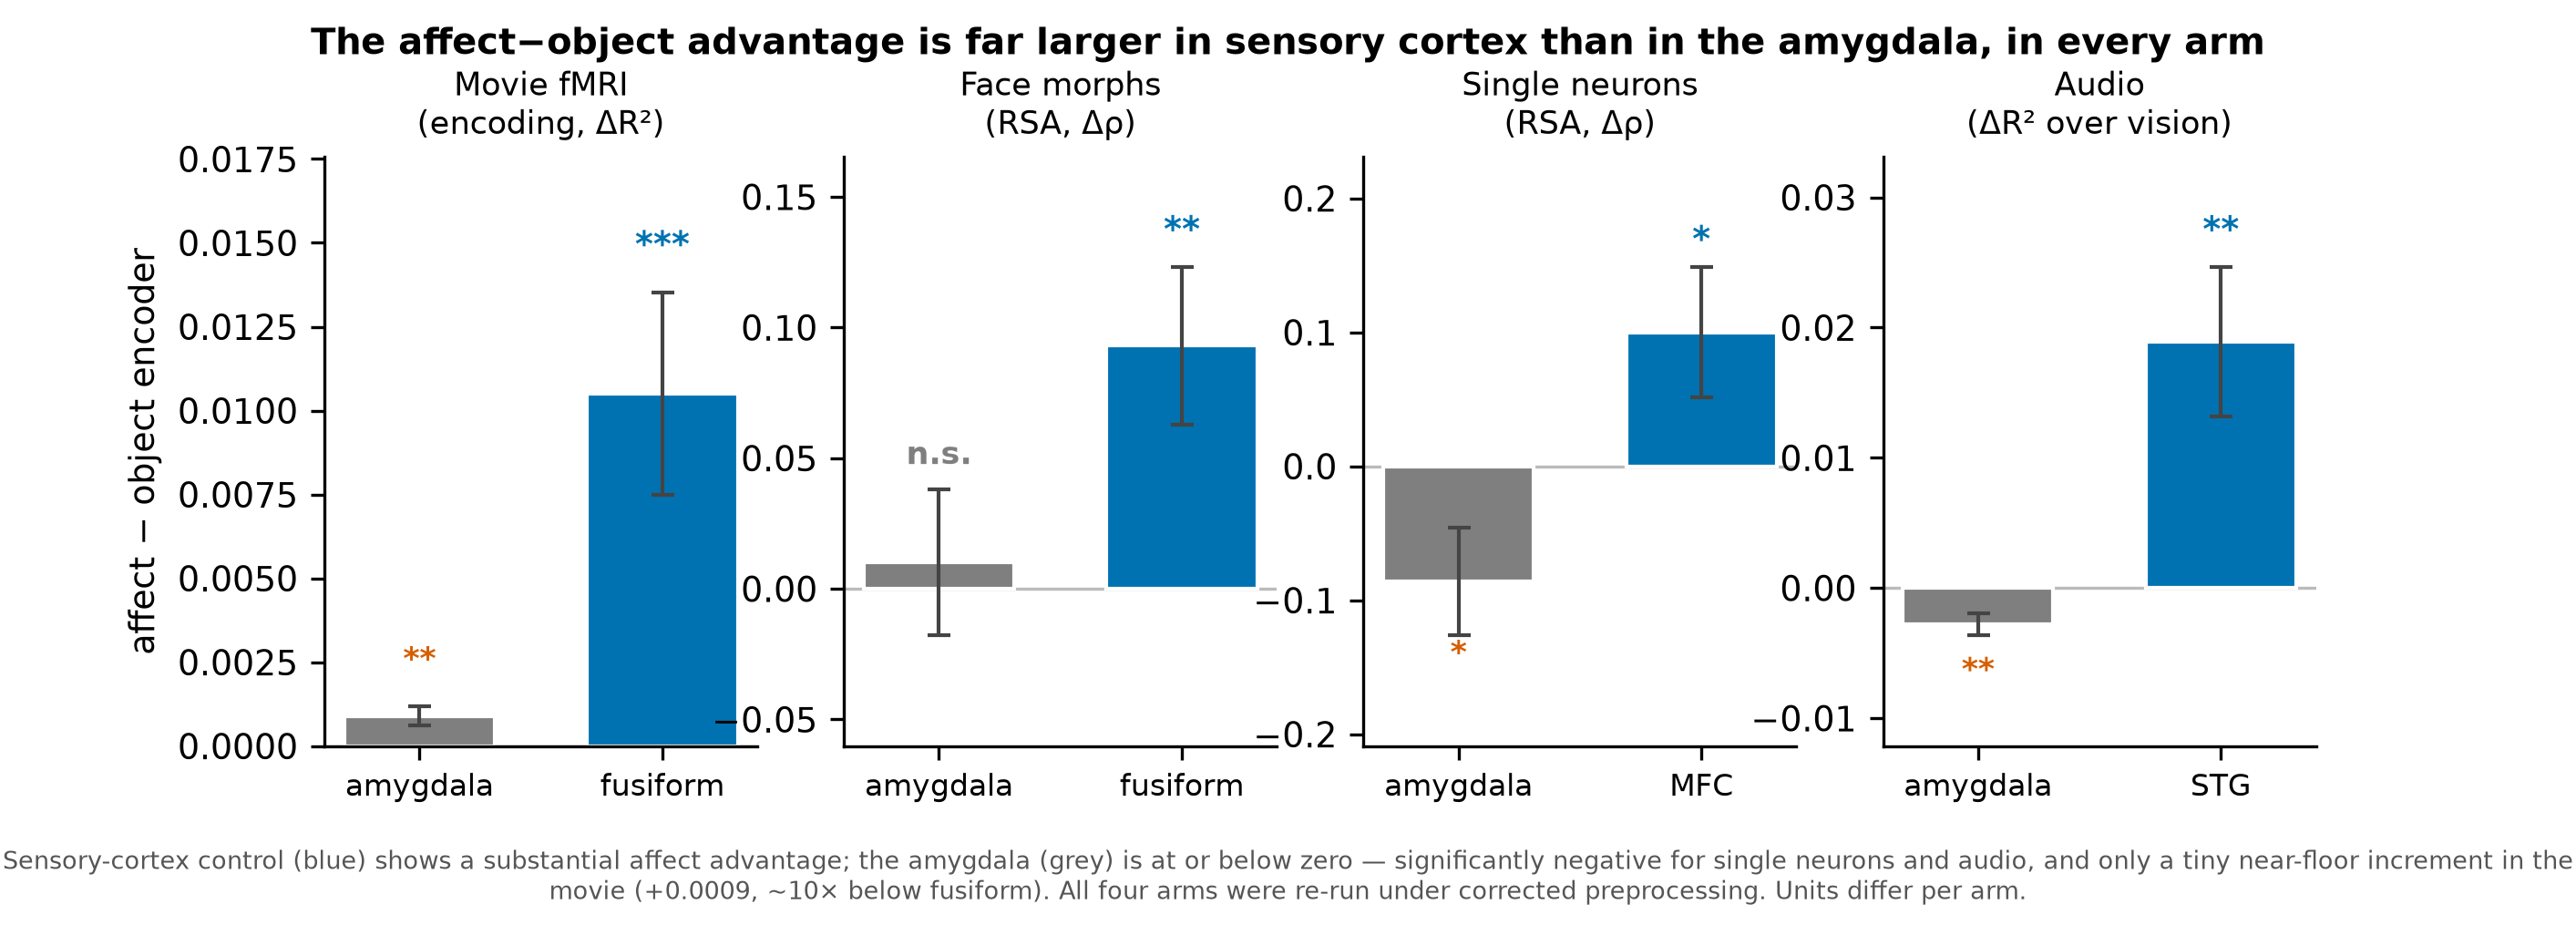
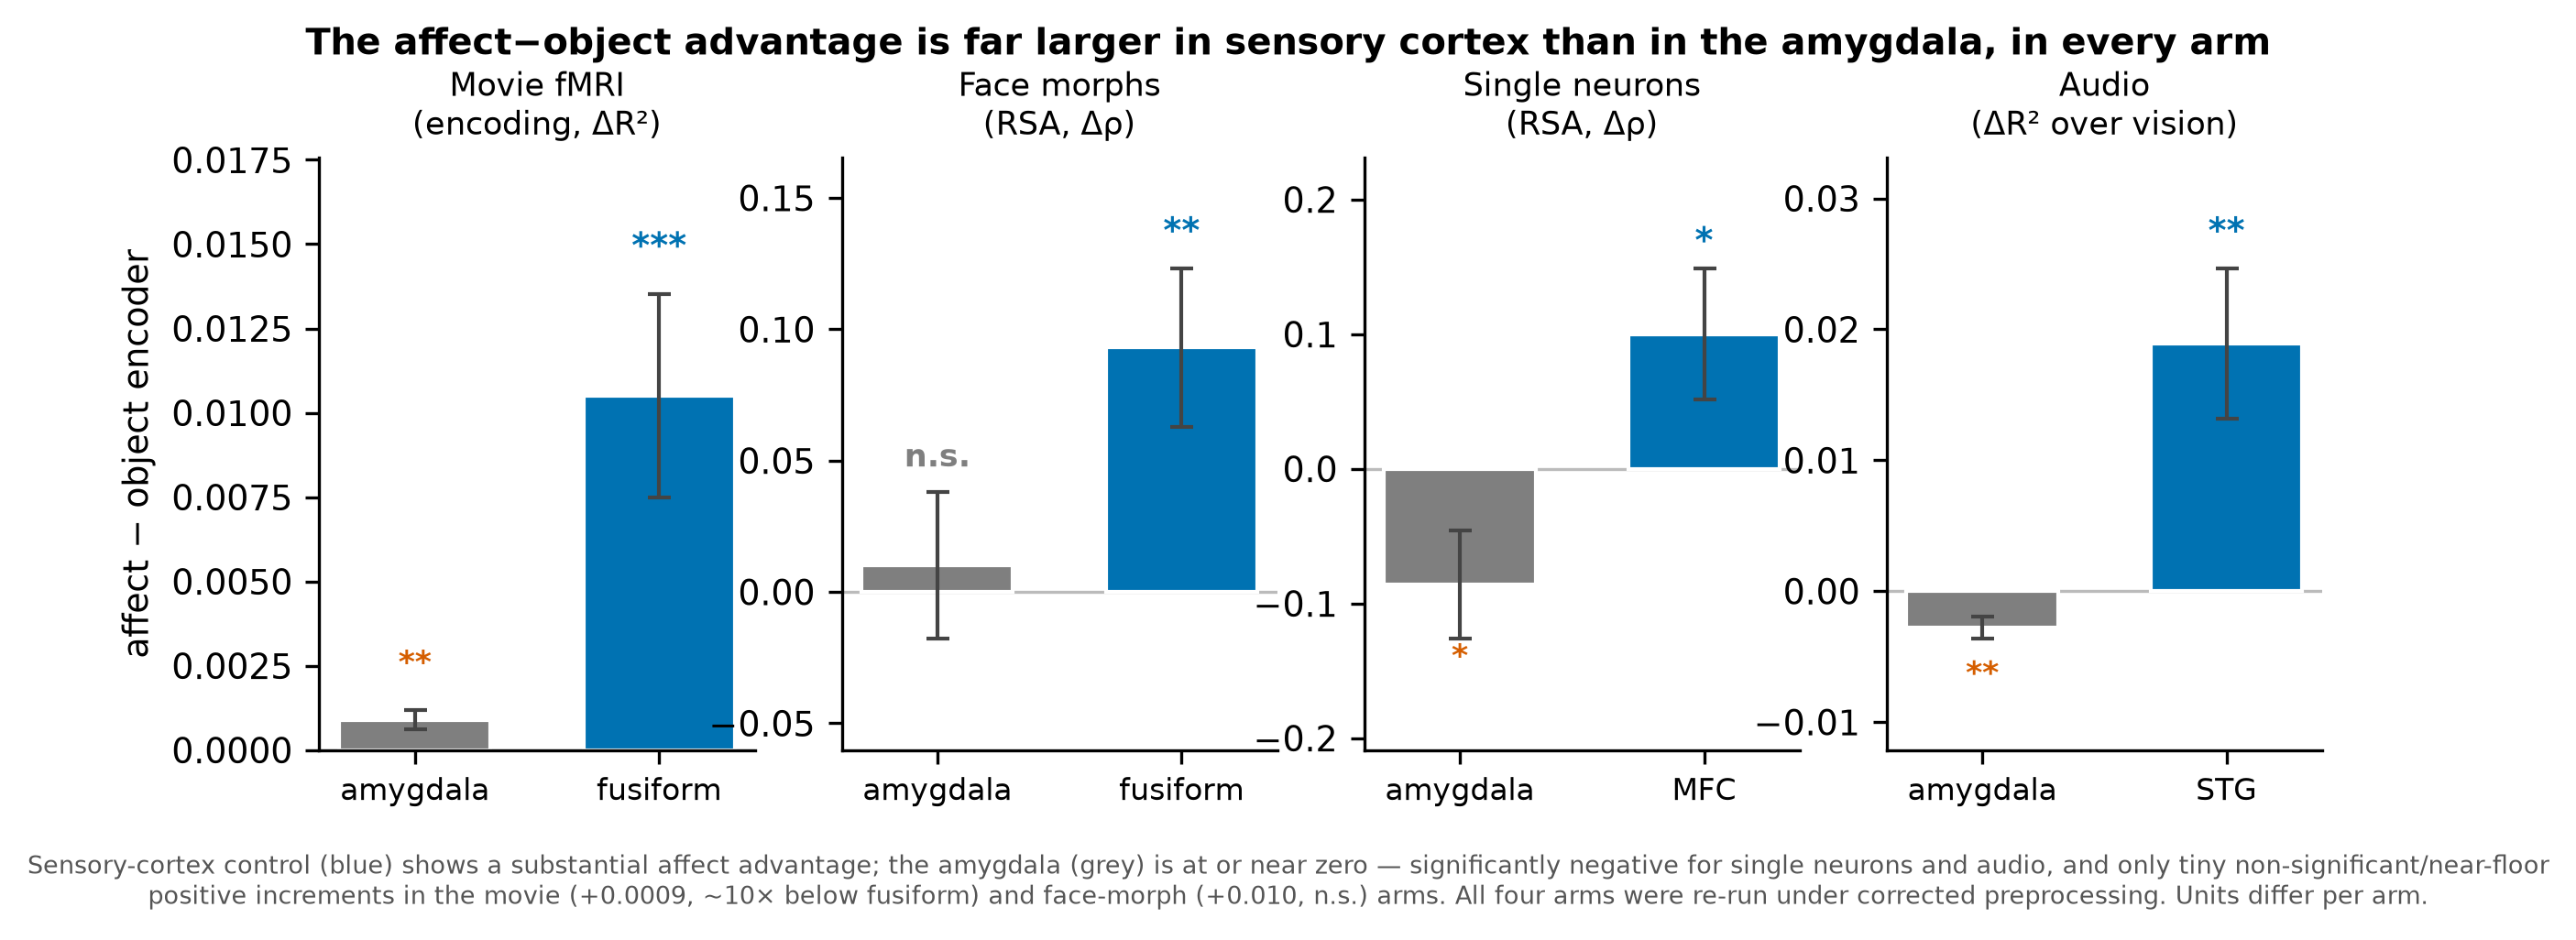
Deposit hygiene (post-audit): fix gate staleness, superseded-log markers, path scrub, abstract/figure nits
- robustness_gate.py: re-derive the CORRECTED TOST (margin +0.100, upper -0.0065, power 72%) and
  corrected positive-control p-values; it previously certified superseded v1.0.0 stats and conflicted
  with numbers_gate
- numbers_gate.py: docstring corrected to describe what it actually checks (number-in-log co-occurrence,
  not manuscript coverage)
- Mark the 3 pre-correction twin logs SUPERSEDED (amyg_neuron_rsa, pls20, second_affect_swap); README
  reproducibility table gains a v1.1.0 correction banner + canonical corrected-log map
- Scrub incidental machine-path warning lines from the second_affect_swap logs; soften Methods 4.10
  path claim to 'executable code'
- Abstract: 'significantly worse' now scoped to object encoders only (no affect-vs-low-level test exists)
- Fig 1 caption: 'at or near zero' + note face-morph +0.010 n.s.; error bars labeled p-derived; drop
  stale provenance comment in make_figures.py

diff --git a/validation/robustness_gate.py b/validation/robustness_gate.py
@@ -1,23 +1,25 @@
 #!/usr/bin/env python3
 """Robustness gate (amygdala manuscript). Deterministically re-derives the two load-bearing
-statistical claims from reported summary stats: (1) BY-FDR over the confirmatory positive-control
-family -> all survive; (2) the single-neuron TOST -> 95% upper < margin AND ~82% power. Pure
-stdlib (math). Analog of the A False Floor CP property/differential test. Exit 0 = both reproduce."""
+statistical claims from the CORRECTED (v1.1.0 re-run) summary stats: (1) BY-FDR over the
+confirmatory positive-control family -> all survive; (2) the single-neuron TOST -> 95% upper
+< margin AND ~72% power. Pure stdlib (math). Exit 0 = both reproduce."""
 import math, sys
 def ncdf(x): return 0.5*(1+math.erf(x/math.sqrt(2)))
 ok=True
-# (1) BY-FDR (dependence-robust) over the confirmatory positive-control detections
-fam={"movie fusiform":0.003,"faces fusiform":0.005,"audio STG":0.010}
+# (1) BY-FDR (dependence-robust) over the confirmatory positive-control detections (corrected re-run):
+#     movie fusiform Emo-Res p<.001, faces fusiform kragel-ResNet p=.002, audio STG audio-over-vision p=.001
+fam={"movie fusiform":0.001,"faces fusiform":0.002,"audio STG":0.001}
 p=sorted(fam.values()); m=len(p); c=sum(1.0/i for i in range(1,m+1)); prev=1.0; q={}
 for rank in range(m-1,-1,-1):
     val=min(prev,p[rank]*m*c/(rank+1)); prev=val; q[p[rank]]=val
 allsurv=all(q[v]<0.05 for v in fam.values())
 print(f"  BY-FDR: controls q={[round(q[v],3) for v in fam.values()]} -> {'ALL SURVIVE' if allsurv else 'FAIL'}")
 ok &= allsurv
-# (2) TOST re-derivation: est=-0.043, 95% CI upper=+0.009, se=0.0256, margin=0.073
-se=0.0256; upper=0.009; margin=0.073; power=ncdf(margin/se-1.96)
+# (2) TOST re-derivation (corrected): equivalence-frame point est=-0.083, unit-boot 95% CI upper=-0.0065,
+#     se=0.0391, margin=+0.100 (MFC-sized affect effect); power to detect the +0.100 margin ~72%.
+se=0.0391; upper=-0.0065; margin=0.100; power=ncdf(margin/se-1.96)
 bounded = upper < margin
-print(f"  TOST: 95%-upper {upper:+.3f} < margin {margin:+.3f} -> {'BOUNDED' if bounded else 'FAIL'} | power={power:.2f} (~{round(power*100)}%)")
-ok &= bounded and 0.78 < power < 0.86
+print(f"  TOST: 95%-upper {upper:+.4f} < margin {margin:+.3f} -> {'BOUNDED' if bounded else 'FAIL'} | power={power:.2f} (~{round(power*100)}%)")
+ok &= bounded and 0.68 < power < 0.76
 print(f"\nrobustness gate: {'PASS' if ok else 'FAIL'} (both load-bearing claims re-derive)")
 sys.exit(0 if ok else 1)

diff --git a/validation/numbers_gate.py b/validation/numbers_gate.py
@@ -1,11 +1,17 @@
 #!/usr/bin/env python3
-"""G2 numbers-gate (amygdala manuscript). Deterministic: asserts every headline number in
-MANUSCRIPT_amygdala-false-floor_v2.md co-occurs in a committed result log. Not an LLM.
-Exit 0 = all numbers trace.
+"""G2 numbers-gate (amygdala manuscript). Deterministic, not an LLM. Exit 0 = all numbers trace.
 
-Updated for the corrected Mac re-run (canonical 0-255 EmoNet preprocessing). Re-run headline
-numbers trace to real_data/scripts/reanalysis/results/*.txt; the two arms NOT re-run this pass
-(face-morph fMRI RSA, audio) trace to their prior committed logs."""
+WHAT THIS CHECKS (and what it does NOT): each entry below is a hand-transcribed headline number
+from the manuscript paired with a substring set; the gate asserts that substring set co-occurs
+within some committed result log under real_data/**. It confirms every headline number is BACKED
+BY committed evidence (the number exists in a log). It does NOT open the manuscript and cannot, on
+its own, confirm the manuscript quotes the number in the right place or describes its estimator /
+CI / sign correctly -- that is a manual/reviewer responsibility. Keep the transcribed entries in
+sync with the manuscript by hand.
+
+All four arms were re-run under corrected preprocessing; re-run headline numbers trace to
+real_data/scripts/reanalysis/results/*.txt (the same-named pre-correction logs elsewhere are
+superseded and carry a SUPERSEDED header)."""
 import os, glob, sys
 HERE=os.path.dirname(os.path.abspath(__file__)); RD=os.path.join(HERE,"..","real_data")
 RE=os.path.abspath(os.path.join(HERE,"..",".."))

diff --git a/figures/make_figures.py b/figures/make_figures.py
@@ -16,8 +16,8 @@ def save(fig,name):
     fig.savefig(f"{FIG}/{name}.pdf",bbox_inches="tight"); plt.close(fig)
 
 # ---- Fig 1: four-arm comparison (affect encoder advantage over object encoder) ----
-# CORRECTED (Mac re-run, canonical 0-255 EmoNet preprocessing). Movie & single-neuron re-run;
-# face-morph & audio NOT re-run this pass (prior neural values, shown provisional/hatched).
+# CORRECTED (Mac re-run, canonical 0-255 EmoNet preprocessing). All four arms re-run under corrected
+# preprocessing (rerun=True for every arm; no arm is provisional/hatched).
 # (title, ctl_label, v_amy, v_ctl, p_amy, p_ctl, rerun)
 arms=[("Movie fMRI\n(encoding, ΔR²)","fusiform", 0.0009, 0.0105, 0.002, 0.0005, True),
       ("Face morphs\n(RSA, Δρ)","fusiform",        0.010, 0.093,  0.72,  0.002,  True),
@@ -43,9 +43,9 @@ for ax,(title,ctl,va,vc,pa,pc,rerun) in zip(axes,arms):
 axes[0].set_ylabel("affect − object encoder")
 fig.suptitle("The affect−object advantage is far larger in sensory cortex than in the amygdala, in every arm",
              fontsize=9.6,y=1.05,fontweight="bold")
-fig.text(0.5,-0.09,"Sensory-cortex control (blue) shows a substantial affect advantage; the amygdala (grey) is at or below zero — "
-         "significantly negative for single neurons and audio, and only a tiny near-floor increment in the movie "
-         "(+0.0009, ~10× below fusiform). All four arms were re-run under corrected preprocessing. Units differ per arm.",
+fig.text(0.5,-0.09,"Sensory-cortex control (blue) shows a substantial affect advantage; the amygdala (grey) is at or near zero — "
+         "significantly negative for single neurons and audio, and only tiny non-significant/near-floor positive increments in the movie "
+         "(+0.0009, ~10× below fusiform) and face-morph (+0.010, n.s.) arms. All four arms were re-run under corrected preprocessing. Units differ per arm.",
          ha="center",fontsize=6.6,color="#555",wrap=True)
 save(fig,"Fig1_four_modality")
 

diff --git a/README.md b/README.md
@@ -159,7 +159,23 @@ guard, numbers-gate, robustness re-derivation, citation resolver, and AI-artifac
 Each headline number in the manuscript maps to a committed result log (the exact console output
 of the reference run). Verdicts, not 4th-decimals, are the reproducibility target.
 
-| Result log | Supports (claim) | Figure |
+> **v1.1.0 correction — read first.** The table immediately below maps the ORIGINAL v1.0.0 run. Under
+> corrected canonical EmoNet preprocessing (v1.1.0) **all four arms were re-run**; the corrected logs
+> live under `real_data/scripts/reanalysis/results/` and **supersede the same-named original logs**
+> (each original now carries a `SUPERSEDED` header). The manuscript reports the **corrected** numbers.
+> See `CHANGELOG.md`. Canonical v1.1.0 headline logs:
+>
+> | Corrected log (`real_data/scripts/reanalysis/results/`) | Headline |
+> |---|---|
+> | `amyg_neuron_rsa_result.txt` | Single-neuron affect−object −0.086 (boot-p=.033); left −0.109 (p=.003); MFC +0.100 |
+> | `single_neuron_tost_result.txt` | Bounded null: margin +0.100, unit-boot 95% upper −0.0065, power ~72% |
+> | `pls20_result.txt` | Movie EmoNet-unique over ImageNet +0.0022/+0.0017 |
+> | `second_affect_swap_result.txt` | Movie EmoNet−ResNet +0.0009/+0.0006; fusiform +0.0105; convergence −0.28/−0.00 (amyg) vs +0.79 (fusiform) |
+> | `sun_rsa_rerun_result.txt` | Face-morph fusiform kragel−ResNet +0.093 (p=.002); amygdala null |
+> | `audio_rerun_result.txt` | Audio STG over-vision +0.0189 (p=.001); amygdala negative |
+> | `banded_robust_result.txt` / `noise_ceiling_result.txt` / `univariate_byfdr_result.txt` | Banded-ridge over-regularization; Fig-3 reliabilities; univariate BY-FDR (both q=.06) |
+
+| Result log (ORIGINAL v1.0.0 run — see correction note above) | Supports (claim) | Figure |
 |---|---|---|
 | `real_data/results/pls20_result.txt` | Amygdala BOLD is EmoNet-predictable, but EmoNet-unique-over-ImageNet is ~0 (+0.0014/+0.0016); fusiform positive control is large | Fig 1 |
 | `real_data/results/pls20_ctrl_result.txt` | Random-encoder null holds in amygdala; region-specificity (artifact appears in V1/fusiform, not amygdala) | Fig 1 |